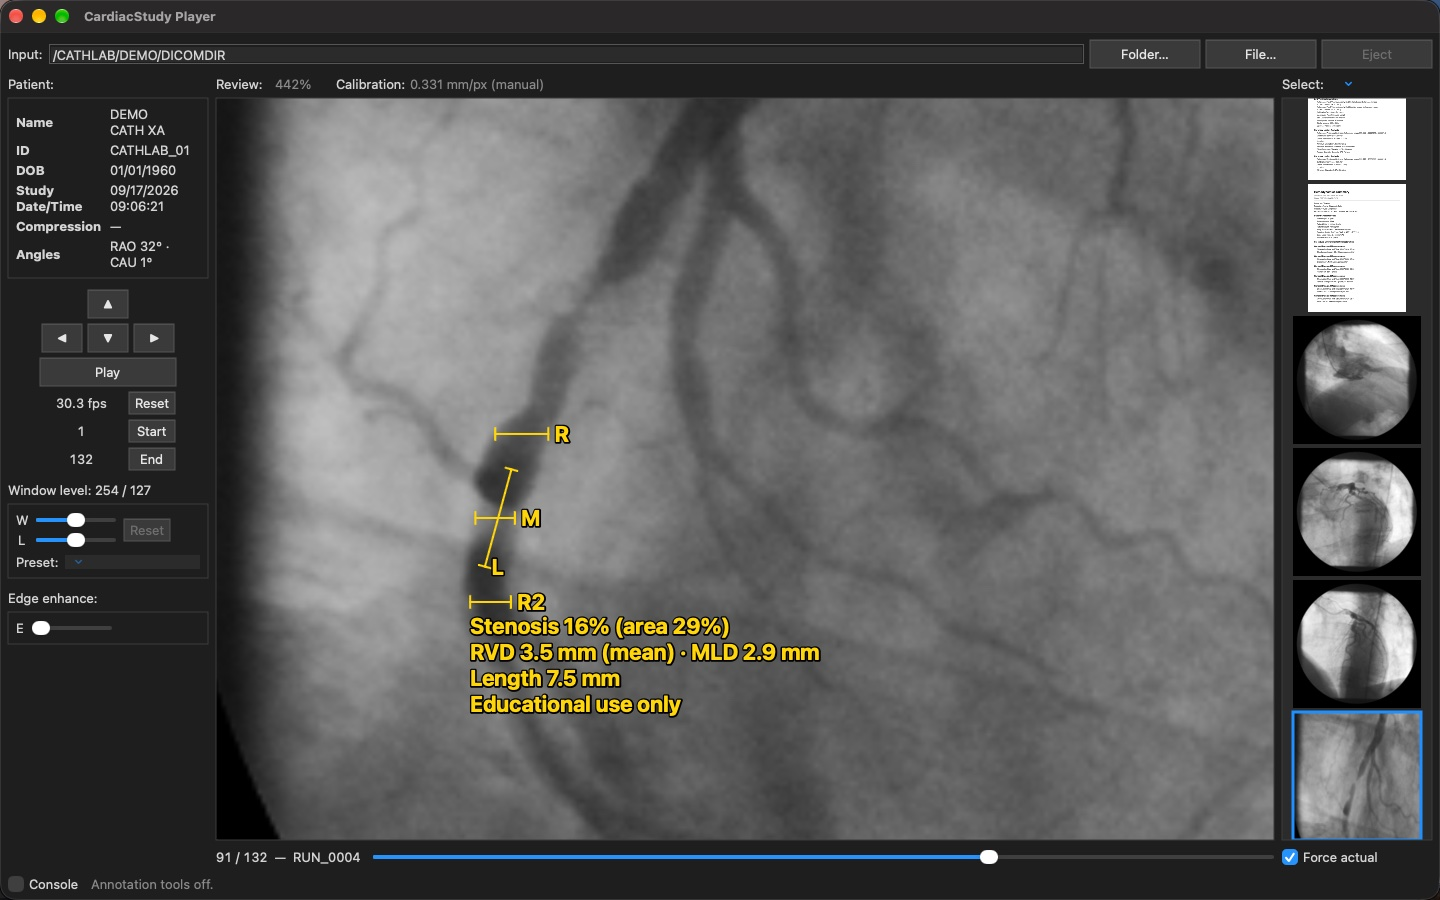
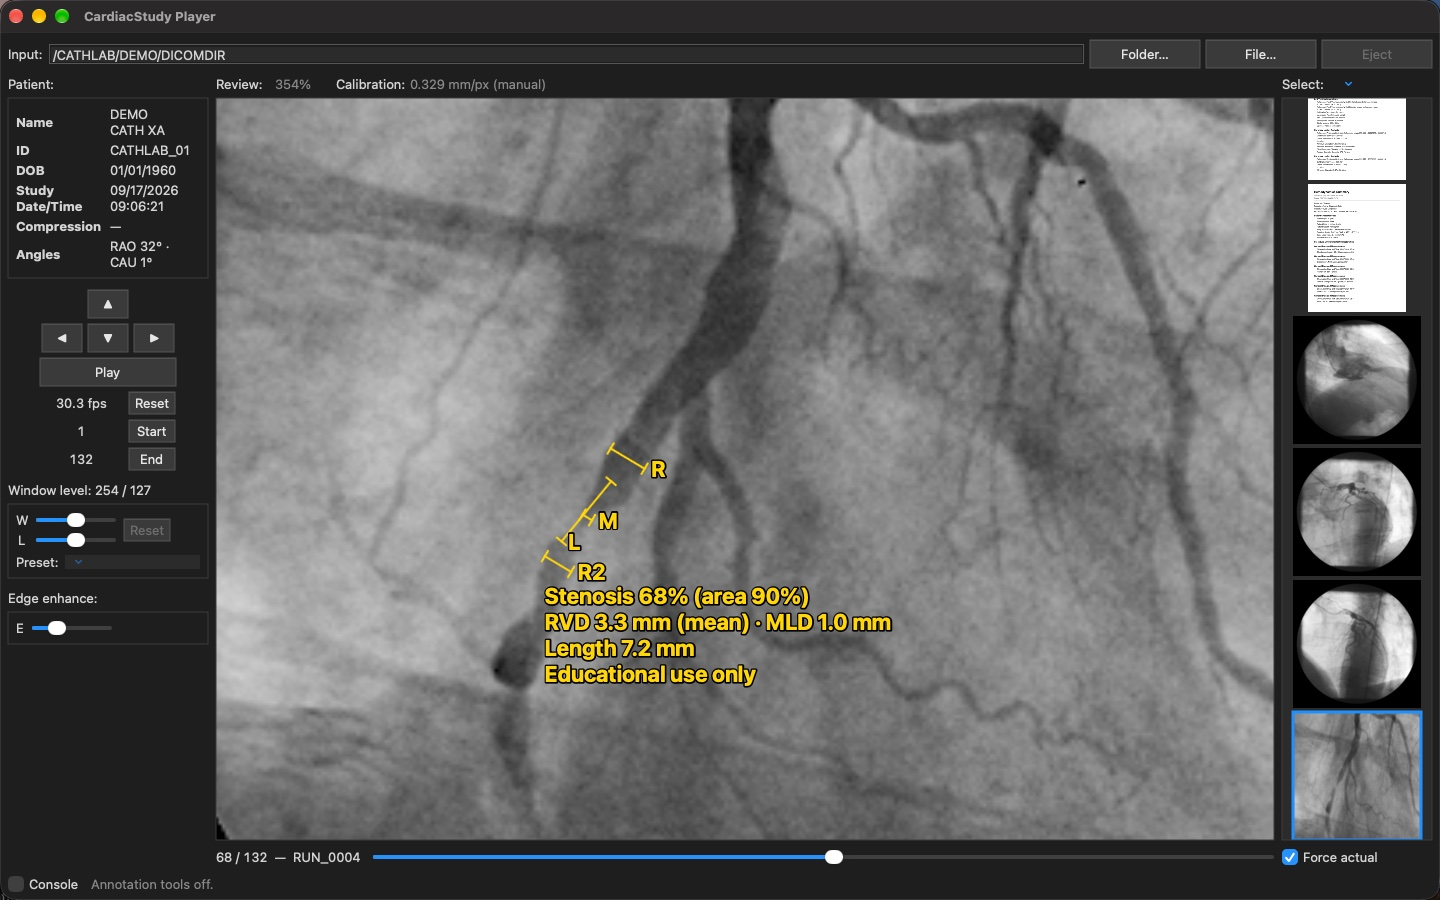
Angio measurements image: the 68% circumflex stenosis

diff --git a/cardiacstudy-player/index.html b/cardiacstudy-player/index.html
@@ -87,7 +87,7 @@
 
   <section class="page" id="f-angio-measure" role="tabpanel" aria-labelledby="t-angio-measure">
     <img src="/cardiacstudy-player/media/angio-stenosis.jpg" width="1440" height="900" loading="lazy"
-         alt="CardiacStudy: DICOM Viewer zoomed onto a circumflex lesion with stenosis diameters, calibrated on the guiding catheter">
+         alt="CardiacStudy: DICOM Viewer zoomed onto a circumflex lesion measured at 68% diameter stenosis, calibrated on the guiding catheter">
     <div>
       <h3>Angio measurements (new in 1.2)</h3>
       <ul>
